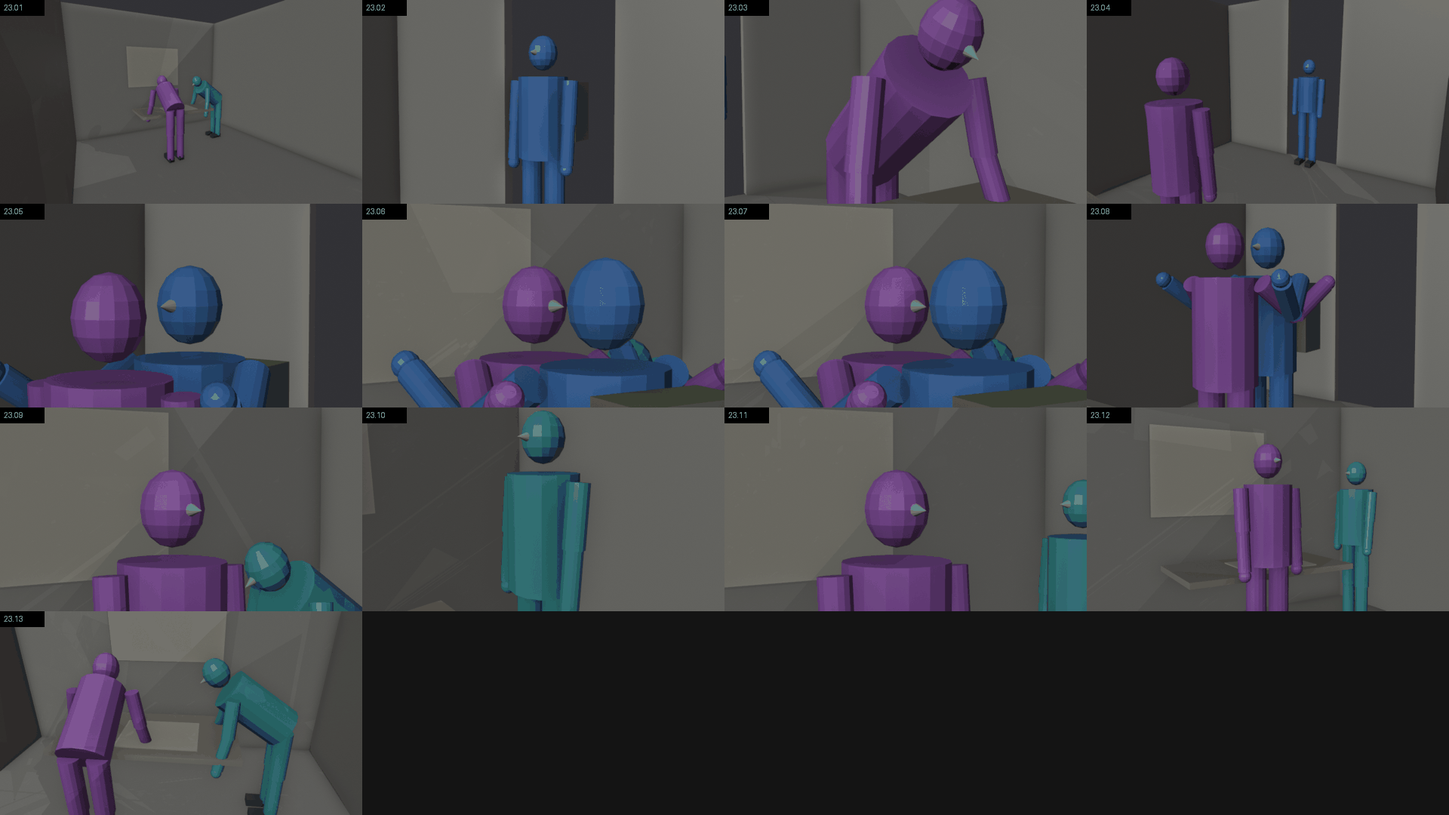
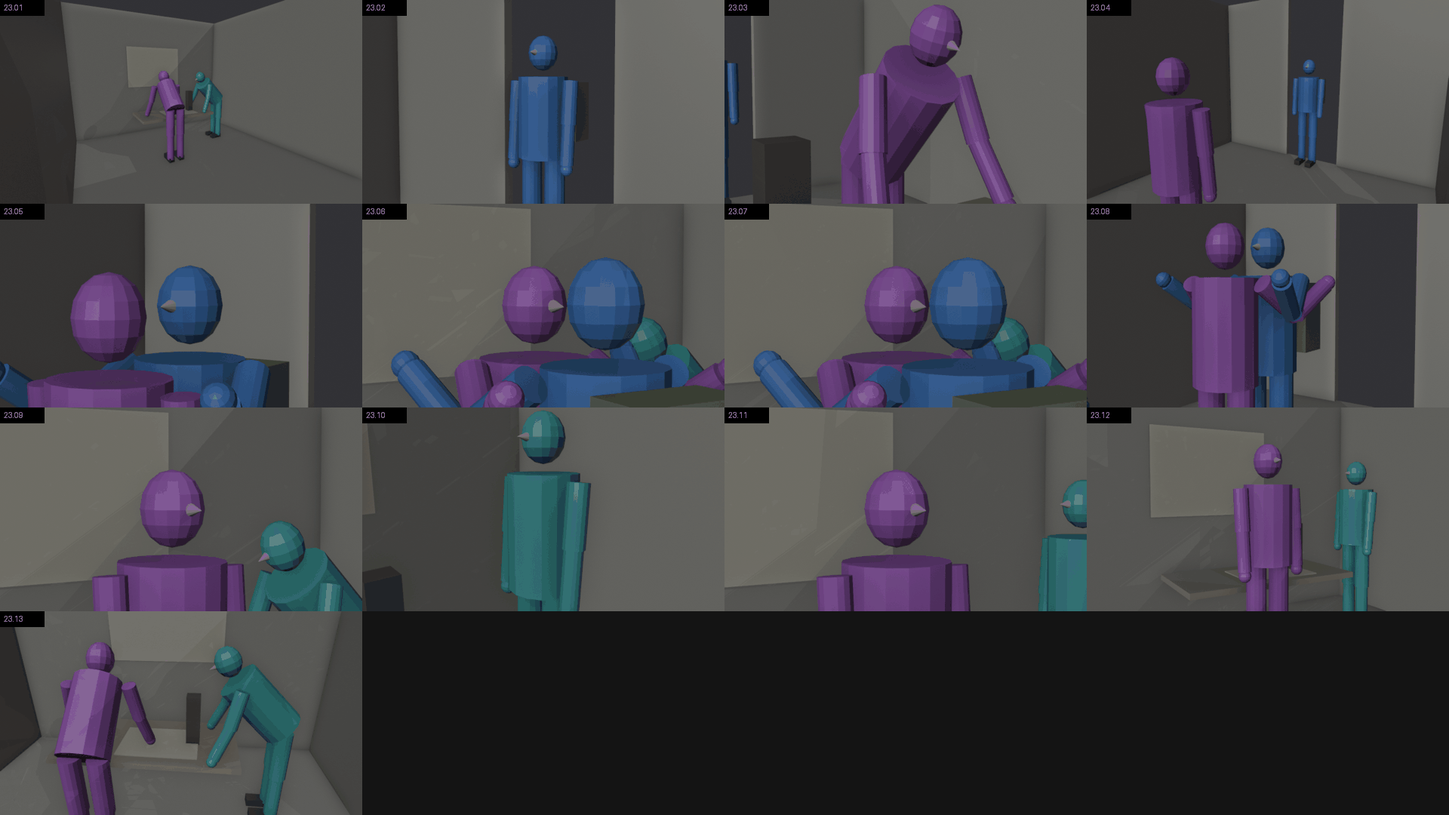
Рендеры: пятый круг — превью сцен 1–23 после правок критика, код lib/run_scene

diff --git a/screenplay/env-review/renders/src/lib/locations.py b/screenplay/env-review/renders/src/lib/locations.py
@@ -223,8 +223,10 @@ def army_tent(name, at, facing=0.0, size=(2.2, 2.8), h=1.9, rgb=(0.20, 0.22, 0.1
     _drop_faces(roof, (0, -1, 0))  # the prism's flat underside
     roof.scale = (1, 0.55, 1)
     attach(roof, root, (0, 0, h * 0.65 + w * 0.14), (math.pi / 2, 0, math.pi / 2 * 0))
-    if open_flap:
-        attach(box((w * 0.45, 0.02, h * 0.6), (0, 0, 0), mat("dark_inside", (0.01, 0.01, 0.01), flat=(0.1, 0.1, 0.1)), name=f"{name}.door"), root, (0, d / 2 + 0.01, h * 0.3))
+    if open_flap:  # a real opening in the front wall: two side panels, the middle 0.45 w open
+        _drop_faces(wall, (0, 1, 0))
+        for sx in (-1, 1):
+            attach(box((w * 0.275, 0.02, h * 0.65), (0, 0, 0), canvas, name=f"{name}.front"), root, (sx * w * 0.3625, d / 2, h * 0.325))
     root.location = (at[0], at[1], 0)
     root.rotation_euler = (0, 0, math.radians(-facing))
     return root
@@ -397,7 +399,24 @@ def station(kind="pylon", length=162.0, light=(1.0, 0.25, 0.15), energy=180, lam
             top = 4.3 + TRACK_Z  # tunnel crown (lowered with the track) + a little
             box((5.2, 0.4, low - top), (tx, wy, top + (low - top) / 2), marble, name="end_wall")  # over the tunnel
             _tunnel_stub(tx, ey + (15.2 if ey > 0 else -15.2))
+            _portal_ring(tx, wy - (0.21 if ey > 0 else -0.21), TRACK_Z + CZ, marble)  # closes the corners round the tube
     return {"length": length, "plat_z": PLAT_H, **K}
+
+
+def _portal_ring(x, y, zc, m, r_in=R + 0.15, r_out=3.8, n=48):
+    """Flat annulus facing the station: fills the corners between the round tunnel and the square wall opening."""
+    bm = bmesh.new()
+    inner = [bm.verts.new((x + r_in * math.cos(2 * math.pi * i / n), y, zc + r_in * math.sin(2 * math.pi * i / n))) for i in range(n)]
+    outer = [bm.verts.new((x + r_out * math.cos(2 * math.pi * i / n), y, zc + r_out * math.sin(2 * math.pi * i / n))) for i in range(n)]
+    for i in range(n):
+        j = (i + 1) % n
+        bm.faces.new((inner[i], inner[j], outer[j], outer[i]))
+    me = bpy.data.meshes.new("portal_ring")
+    bm.to_mesh(me)
+    bm.free()
+    o = bpy.data.objects.new("portal_ring", me)
+    bpy.context.scene.collection.objects.link(o)
+    return put(o, m)
 
 
 def _tunnel_stub(x, y, length=30.0):
@@ -466,7 +485,7 @@ def peregon_savelovskaya():
     from kit import sandbags
     running_tunnel(length=140, y=30)
     for x in (-1.75, 1.75):
-        s = sandbags(f"barricade_{x}", width=1.4, height=1.4)
+        s = sandbags(f"barricade_{x}", width=1.4, height=1.5)  # 7 rows, top 1.405: the flamethrower man stands on it (3.03)
         s.location = (x, 60, 0)
     bpy.ops.object.light_add(type="POINT", location=(0, 63, 2.0))
     li = bpy.context.object
@@ -533,7 +552,7 @@ def vdnkh():
     scatter_crates(rng, ((-3.5, 3.5), (-70, 55)), 18, z=PLAT_H)
     box((5.0, 0.5, 4.0), (0, 80.2, PLAT_H + 2.0), mat("blast_door", (0.12, 0.12, 0.11), flat=(0.40, 0.42, 0.40), rough=0.5, metal=0.7),
         name="escalator_gate")  # sealed passage to the north vestibule
-    wall_clock("--:--", (9.85, 80.6, 5.3))  # the time is set by every scene ("clock"); run_scene refuses a scene without it
+    wall_clock("--:--", (9.85, 80.925, 5.3))  # the time is set by every scene ("clock"); run_scene refuses a scene without it
     # tea factory in the dead end before the sealed gate: rows of wires with drying mushroom caps, small fires, door tables
     # tarp partition with a wide doorway: closes the factory off from Main Street so it reads as a dead end; 2.4 m high,
     # so the existing cameras above it (19.01, 7.13) still look in
@@ -601,6 +620,8 @@ def botanical():
         box((2.6, 0.12, 3.4), (x, 83.6, PLAT_H + 1.7), rust, name=f"sliding_door_{side}")
     box((5.5, 0.5, 4.3), (0, 85.6, PLAT_H + 6.6), mat("blast_door", (0.12, 0.12, 0.11), flat=(0.40, 0.42, 0.40), rough=0.5, metal=0.7), name="blast_door")  # raised: open
     box((0.08, 0.08, 0.9), (3.2, 83.4, PLAT_H + 0.9), rust, rot=(math.radians(25), 0, 0), name="lever")  # beside the doors, wrapped in wire
+    # T-handle at the top of the lever: wide enough for three children's hands side by side (scene 9, 9.17)
+    box((0.9, 0.06, 0.06), (3.2, 83.4 - 0.45 * math.sin(math.radians(25)), PLAT_H + 0.9 + 0.45 * math.cos(math.radians(25))), rust, name="lever_bar")
     box((5.6, 2.6, 0.3), (0, 85.9, PLAT_H - 0.15), mat("granite_floor", (0.20, 0.14, 0.12), flat=(0.55, 0.42, 0.38), rough=0.5),
         name="escalator_landing")  # floor from the doors to the first step (the shaft bottom lies below it)
     steps = mat("rotten_steps", (0.08, 0.06, 0.05), flat=(0.35, 0.28, 0.20))
@@ -616,6 +637,10 @@ def botanical():
     bpy.ops.mesh.primitive_cylinder_add(radius=2.2, depth=17, location=(0, 93.5, PLAT_H + 4.2), rotation=(math.radians(-60), 0, 0),
                                         vertices=32, end_fill_type="NOTHING")  # open tube along the 30-degree incline
     put(bpy.context.object, mat("concrete", (0.20, 0.18, 0.16), flat=(0.33, 0.32, 0.30)), "escalator_shaft")
+    axis = Vector((0, math.sin(math.radians(60)), math.cos(math.radians(60))))  # the tube's axis after the -60 degree tilt
+    top = Vector((0, 93.5, PLAT_H + 4.2)) + axis * 8.5
+    cyl(2.2, 0.05, top.to_tuple(), mat("dark_inside", (0.01, 0.01, 0.01), flat=(0.1, 0.1, 0.1)), rot=(math.radians(-60), 0, 0), verts=32,
+        name="escalator_top")  # the far end is dark (the vestibule above is not modelled here), not open background
 
 
 def botanical_vestibule():
@@ -629,9 +654,18 @@ def botanical_vestibule():
         if abs(math.degrees(a0) - 90) < 9:
             continue
         box((0.4, 1.7, 5.0), (9.0 * math.cos(a0), 9.0 * math.sin(a0), 2.5), conc, rot=(0, 0, a0), name="rotunda_wall")
-    dome = half_tube("dome_half", 9.0, 9.0, (0, 5.0), conc, a0=0, a1=180, segs=24)  # the surviving south half of the vault
-    dome.location.y = -4.5
-    dome.rotation_euler = (0, 0, 0)
+    # the surviving south half of the dome (a real dome, not a barrel vault): the sky shows only over the fallen north half
+    bm = bmesh.new()
+    bmesh.ops.create_uvsphere(bm, u_segments=48, v_segments=24, radius=9.2)
+    bmesh.ops.delete(bm, geom=[v for v in bm.verts if v.co.z < -0.01 or v.co.y > 0.5], context="VERTS")
+    me = bpy.data.meshes.new("dome_half")
+    bm.to_mesh(me)
+    bm.free()
+    dome = bpy.data.objects.new("dome_half", me)
+    bpy.context.scene.collection.objects.link(dome)
+    dome.location = (0, 0, 5.0)
+    dome.scale.z = 0.6
+    put(dome, conc)
     box((3.0, 6.0, 0.05), (0, -6.0, 0.01), mat("dark_inside", (0.01, 0.01, 0.01), flat=(0.1, 0.1, 0.1)), name="escalator_opening")
     rng = _rng(10)
     scatter_debris(rng, ((-7, 7), (-7, 7)), 150)
@@ -660,6 +694,7 @@ def sukhoi_tent():
     box((3.2, 0.04, 2.4), (0, 2.1, 1.2), canvas, name="tent_back")
     box((1.2, 0.04, 2.2), (-1.0, -2.1, 1.1), canvas, name="tent_front_L")
     box((1.2, 0.04, 2.2), (1.0, -2.1, 1.1), canvas, name="tent_front_R")
+    box((0.8, 0.04, 0.48), (0, -2.1, 2.16), canvas, name="tent_front_lintel")  # doorway 1.92 m: a tall man stoops
     cot = mat("cot", (0.20, 0.22, 0.15), flat=(0.45, 0.52, 0.35))
     for x in (-1.15, 1.15):
         box((0.7, 1.9, 0.08), (x, 0.3, 0.42), cot, name="cot")
@@ -669,12 +704,20 @@ def sukhoi_tent():
         for size, off in (((0.75, 0.03, 0.5), (0, 0.185, 0)), ((0.03, 0.4, 0.5), (-0.36, 0, 0)), ((0.03, 0.4, 0.5), (0.36, 0, 0)),
                           ((0.75, 0.4, 0.03), (0, 0, -0.235)), ((0.75, 0.4, 0.03), (0, 0, 0.235))):  # crate on its side, open to the tent
             box(size, (x + off[0], 1.85 + off[1], z + off[2]), wood, name="shelf_crate")
-        box((0.6, 0.25, 0.3), (x, 1.85, z + 0.05), books, name="books")
+        trng = _rng(30 + i)
+        bx = x - 0.33
+        while bx < x + 0.3:  # 8-10 tomes standing side by side, spines to the tent
+            tw, th = trng.uniform(0.05, 0.085), trng.uniform(0.2, 0.32)
+            box((tw, 0.24, th), (bx + tw / 2, 1.85, z - 0.22 + th / 2),
+                mat(f"book_{i}_{round(bx, 2)}", trng.choice(((0.35, 0.30, 0.15), (0.28, 0.12, 0.08), (0.18, 0.2, 0.12), (0.4, 0.36, 0.25))),
+                    flat=(0.85, 0.75, 0.40)), name="book")
+            bx += tw + 0.006
     crate("seat_crate", (0.0, -0.4), 0)
     box((0.8, 0.6, 0.05), (0.0, 0.6, 0.7), mat("door_table", (0.18, 0.15, 0.11), flat=(0.60, 0.52, 0.40)), name="table")
     bpy.ops.object.light_add(type="POINT", location=(0, 0.6, 1.6))
     li = bpy.context.object
     li.name, li.data.energy, li.data.color, li.data.shadow_soft_size = "tent_lamp", 120, (1.0, 0.75, 0.45), 0.1
+    box((0.01, 0.01, 0.55), (0, 0.6, 2.075), mat("cable", (0.03, 0.03, 0.03), flat=(0.12, 0.12, 0.12), rough=0.5), name="tent_lamp_cord")  # 714
     glow = mat("tent_lamp_glow", (1, 0.8, 0.5), flat=(1, 0.9, 0.6), emit=(1, 0.75, 0.45), strength=8)
     box((0.12, 0.12, 0.16), (0, 0.6, 1.72), glow, name="tent_lamp_bulb").visible_shadow = False  # the lamp itself, under the ridge
     bpy.context.scene.world.node_tree.nodes["Background"].inputs[0].default_value = (0.02, 0.008, 0.006, 1)  # red station glow through canvas
@@ -689,7 +732,7 @@ def vdnkh_office():
     box((4, 0.1, 3), (0, 2.5, 1.5), plaster, name="wall")
     box((1.5, 0.1, 3), (-1.25, -2.5, 1.5), plaster, name="wall")
     box((1.5, 0.1, 3), (1.25, -2.5, 1.5), plaster, name="wall")
-    box((1.6, 0.8, 0.05), (0, 1.3, 0.78), mat("door_table", (0.18, 0.15, 0.11), flat=(0.60, 0.52, 0.40)), name="desk")
+    box((1.6, 0.8, 0.05), (0, 1.3, 0.70), mat("door_table", (0.18, 0.15, 0.11), flat=(0.60, 0.52, 0.40)), name="desk")  # 708
     box((1.4, 0.02, 1.0), (0, 2.44, 1.7), mat("paper_map", (0.55, 0.50, 0.38), flat=(0.95, 0.90, 0.75)), name="wall_map")
     bpy.ops.object.light_add(type="POINT", location=(0.4, 1.3, 1.2))
     li = bpy.context.object

diff --git a/screenplay/env-review/renders/src/lib/kit.py b/screenplay/env-review/renders/src/lib/kit.py
@@ -207,23 +207,29 @@ POSES = {
                    "chest": (-25, 0, 0), "shoulder_L": (150, 0, 40), "elbow_L": (130, 0, 0), "shoulder_R": (150, 0, -40), "elbow_R": (130, 0, 0)},
     "flame": {"shoulder_L": (75, 0, 15), "elbow_L": (10, 0, 0), "shoulder_R": (60, 0, -10), "elbow_R": (40, 0, 0)},
     "stoop": {"chest": (-35, 0, 0), "head": (15, 0, 0), "shoulder_L": (20, 0, 0), "shoulder_R": (20, 0, 0)},
-    "bend_over": {"chest": (-55, 0, 0), "head": (20, 0, 0), "shoulder_L": (60, 0, 10), "elbow_L": (10, 0, 0),
+    "bend_over": {"chest": (-45, 0, 0), "head": (20, 0, 0), "shoulder_L": (60, 0, 10), "elbow_L": (10, 0, 0),
                   "shoulder_R": (60, 0, -10), "elbow_R": (10, 0, 0)},
     "tap_temple": {"shoulder_R": (110, 0, -25), "elbow_R": (125, 0, 0), "shoulder_L": (5, 0, 0)},
     "sit_tap_temple": {**SIT, "shoulder_R": (110, 0, -25), "elbow_R": (125, 0, 0), "shoulder_L": (40, 0, 0), "elbow_L": (10, 0, 0)},
     "kneel_touch": {"pelvis_z": 0.55, "hip_L": (80, 0, 0), "knee_L": (-80, 0, 0), "hip_R": (10, 0, 0), "knee_R": (-100, 0, 0),
                     "chest": (-20, 0, 0), "shoulder_R": (75, 0, 0), "elbow_R": (15, 0, 0), "shoulder_L": (20, 0, 0)},
     "sit_rifle_beside": {**SIT, "shoulder_L": (40, 0, 0), "elbow_L": (10, 0, 0), "rifle": "beside_R"},
-    "sit_reach_rifle": {**SIT, "chest": (-15, 0, -10), "shoulder_R": (35, 0, -35), "elbow_R": (10, 0, 0), "rifle": "beside_R"},
+    "sit_reach_rifle": {**SIT, "chest": (0, 30, 0), "shoulder_R": (15, -30, 0), "elbow_R": (0, 0, 0), "shoulder_L": (40, 0, 0), "elbow_L": (10, 0, 0)},  # 4.04 (critic)
+    "sit_chop": {**SIT, "chest": (-15, 0, 0), "shoulder_R": (60, 0, 0), "elbow_R": (60, 0, 0), "shoulder_L": (60, 0, 0), "elbow_L": (60, 0, 0)},  # knives on the table (19)
+    "pump": {"chest": (-10, 0, 0), "shoulder_L": (35, 0, -25), "elbow_L": (0, 0, 0), "shoulder_R": (35, 0, 25), "elbow_R": (0, 0, 0)},  # handcar levers (24)
+    "look_up": {"head": (35, 0, 0), "shoulder_L": (5, 0, 0), "shoulder_R": (5, 0, 0)},  # head back to the sky (10.01)
+    "raise_belt": {"shoulder_R": (110, 0, 0), "shoulder_L": (5, 0, 0)},  # belt raised under the tent roof (12)
+    "offer_low": {"shoulder_R": (68, 0, 0), "elbow_R": (5, 0, 0), "shoulder_L": (5, 0, 0)},  # handshake height (6.04)
+    "strike": {"chest": (-10, 0, 0), "shoulder_R": (60, 0, 0), "elbow_R": (10, 0, 0), "shoulder_L": (5, 0, 0)},  # belt blow (12)
     "reach_up": {"shoulder_L": (155, 0, 10), "elbow_L": (15, 0, 0), "shoulder_R": (155, 0, -10), "elbow_R": (15, 0, 0)},  # hanging laundry
     "wave": {"shoulder_R": (150, 0, -20), "elbow_R": (30, 0, 0), "shoulder_L": (5, 0, 0)},
     "sit_wave": {**SIT, "shoulder_R": (120, 0, -20), "elbow_R": (30, 0, 0), "shoulder_L": (40, 0, 0), "elbow_L": (10, 0, 0)},
 }
 RIFLE_HOLD = {  # rifle transform in chest space for each way of holding it
-    "lap": ((0.0, 0.30, -0.42), (0, 0, math.radians(80))),
+    "lap": ((0.0, 0.40, 0.13), (0, 0, math.radians(80))),  # on the thighs, clear of the shins (critic, round 4)
     "hip": ((0.08, 0.30, 0.10), (math.radians(25), 0, math.radians(-10))),
     "shoulder": ((0.13, 0.20, 0.47), (0, 0, 0)),
-    "sling": ((0.05, -0.17, 0.0), (math.radians(70), math.radians(30), 0)),  # on the back, muzzle up over the left shoulder
+    "sling": ((0.05, -0.26, 0.40), (math.radians(90), math.radians(20), math.radians(180))),  # on the back, clear of the body in 11 poses (critic)
     "beside_R": ((0.45, 0.15, -0.27), (0, 0, math.radians(10))),  # seated: lying on the floor at the right hip
 }
 JOINT_NAMES = ["pelvis", "chest", "head", "shoulder_L", "elbow_L", "hip_L", "knee_L", "shoulder_R", "elbow_R", "hip_R", "knee_R"]
@@ -236,7 +242,7 @@ class Actor:
         self.name, self.J, self.k, self.rifle = name, J, J["k"], rifle_obj
         self.pos, self.facing, self.pose, self.head_yaw = Vector((0, 0, 0)), 0.0, "stand", 0.0
 
-    def _apply(self, pose_name, frame, walk=None):
+    def _apply(self, pose_name, frame, walk=None, rifle=None):
         p = POSES[pose_name]
         J, k = self.J, self.k
         J["pelvis"].location = (0, 0, p.get("pelvis_z", 0.95 * k))
@@ -249,8 +255,9 @@ class Actor:
                 rot = (rot[0], rot[1], rot[2] - self.head_yaw)
             J[j].rotation_euler = tuple(math.radians(a) for a in rot)
             J[j].keyframe_insert("rotation_euler", frame=frame)
-        if self.rifle:  # poses that do not use the rifle carry it slung on the back
-            loc, rot = RIFLE_HOLD[p.get("rifle", "sling")]
+        if self.rifle:  # a pose that does not use the rifle: seated -> it lies by the right hip, otherwise slung on the back
+            hold = rifle or p.get("rifle", "beside_R" if p.get("pelvis_z") == SIT["pelvis_z"] else "sling")
+            loc, rot = RIFLE_HOLD[hold]
             self.rifle.location, self.rifle.rotation_euler = loc, rot
             self.rifle.keyframe_insert("location", frame=frame)
             self.rifle.keyframe_insert("rotation_euler", frame=frame)
@@ -295,7 +302,9 @@ class Actor:
         f = frame + int(0.3 * FPS)
         self.facing = _near_angle(self.facing, heading)
         self.pose = "stand"
-        self._apply("stand", f)
+        held = POSES[pose_after].get("rifle")  # walking: carry the rifle the way the pose after the walk holds it
+        carry = held if held in ("hip", "shoulder") else "sling"
+        self._apply("stand", f, rifle=carry)
         self._key_root(f)
         steps = max(2, round(d.length / (speed * 0.5)))
         start = self.pos.copy()
@@ -309,7 +318,7 @@ class Actor:
                 gait.pop("shoulder_R")
             self.pos = start + d * (i / steps)
             self._key_root(fi)
-            self._apply("flashlight" if self.name == "Andrei" else "stand", fi, walk=gait)
+            self._apply("flashlight" if self.name == "Andrei" else "stand", fi, walk=gait, rifle=carry)
         end = f + int(steps * 0.5 * FPS)
         self._apply(pose_after, end + int(0.3 * FPS))
         self.pose = pose_after
@@ -387,7 +396,8 @@ def render_pass(kind, path):
     sh = sc.display.shading
     sc.view_settings.view_transform = "AgX" if kind == "lit" else "Standard"  # flat colours stay exact
     if kind == "lit":
-        sc.render.engine = "BLENDER_EEVEE_NEXT"
+        engines = {e.identifier for e in bpy.types.RenderSettings.bl_rna.properties["engine"].enum_items}
+        sc.render.engine = "BLENDER_EEVEE_NEXT" if "BLENDER_EEVEE_NEXT" in engines else "BLENDER_EEVEE"  # 4.2 / 5.x
         sc.use_nodes = True
         nt = sc.node_tree
         nt.nodes.clear()
@@ -456,7 +466,7 @@ def machine_gun(name):
     root = empty(name)
     g = mat("gunmetal", (0.03, 0.03, 0.03), flat=(0.05, 0.05, 0.05), rough=0.4, metal=0.7)
     for a in (0, 120, 240):
-        leg = cyl(0.02, 0.8, (0, 0, 0), g, (math.radians(30), 0, math.radians(a)), 6, f"{name}.leg")
+        leg = cyl(0.02, 0.8, (0, 0, 0), g, (math.radians(-30), 0, math.radians(a)), 6, f"{name}.leg")  # feet splayed outward
         attach(leg, root, (0.18 * math.sin(math.radians(a)), -0.18 * math.cos(math.radians(a)), 0.35))
     attach(box((0.14, 0.6, 0.16), (0, 0, 0), g, name=f"{name}.body"), root, (0, 0, 0.75))
     attach(cyl(0.025, 0.9, (0, 0, 0), g, (math.pi / 2, 0, 0), 10, f"{name}.barrel"), root, (0, 0.75, 0.77))

diff --git a/screenplay/env-review/renders/src/run_scene.py b/screenplay/env-review/renders/src/run_scene.py
@@ -31,9 +31,17 @@ if "clock_digits" in bpy.data.objects:  # a station clock is in this location: t
     bpy.data.objects["clock_digits"].data.body = spec["clock"]
 for o in list(bpy.context.scene.objects):
     if o.type == "LIGHT":
+        o["base_energy"] = o.data.energy  # as built, before light_scale: lamp bodies dim relative to it
         o.data.energy *= spec.get("light_scale", 1.0)
         if "light_color" in spec and "fire" not in o.name:  # e.g. the "almost brown" VDNKh night instead of its red
             o.data.color = spec["light_color"]
+for m in bpy.data.materials:  # the visible lamp bodies follow their lights: dimmed by light_scale, tinted by light_color
+    if m.name in ("chandelier", "lamp_head", "tent_lamp_glow") or (m.name.endswith("_glow") and m.name != "lantern_glow"):
+        b = m.node_tree.nodes.get("Principled BSDF")
+        if b:
+            b.inputs["Emission Strength"].default_value *= spec.get("light_scale", 1.0)
+            if "light_color" in spec:
+                b.inputs["Emission Color"].default_value = (*spec["light_color"], 1)
 
 # timeline: shot starts from storyboard durations
 t, starts = 0.0, {}
@@ -59,8 +67,16 @@ for name, c in spec["cast"].items():
     actors[name] = kit.Actor(name, J, rifle)
     kit.key_visible(J["root"], 1, True)  # so a later 'hide' only hides from that moment on
 if spec["location"] == "vdnkh":  # ~200 people live here; at night most are inside their tents
-    busy = [tuple(e.get("pos") or e.get("to"))[:2] for e in spec["events"] if e["do"] in ("place", "walk")]
+    busy, at = [], {}  # every point the cast passes (each 0.5 m along every walk / move), crates, location crates
+    for e in sorted(spec["events"], key=lambda e: frame_of(e["at"], e.get("dt", 0))):
+        if e["do"] in ("place", "walk", "move") and "actor" in e:
+            p1 = Vector((e.get("pos") or e.get("to"))[:2])
+            p0 = at.get(e["actor"], p1)
+            k = max(1, int((p1 - p0).length / 0.5))
+            busy += [tuple(p0.lerp(p1, i / k)) for i in range(k + 1)]
+            at[e["actor"]] = p1
     busy += [tuple(c[:2]) for c in spec.get("crates", [])]
+    busy += [tuple(o.location[:2]) for o in bpy.context.scene.objects if o.name.startswith("crate")]
     for sh in spec["shots"]:  # keep the first 6 m in front of every hand-placed lens clear of extras
         c = sh.get("cam", {})
         if isinstance(c.get("pos"), list) and isinstance(c.get("at"), list):
@@ -135,9 +151,13 @@ for e in sorted(spec["events"], key=lambda e: frame_of(e["at"], e.get("dt", 0)))
         li.data.keyframe_insert("energy", frame=f - 1)
         li.data.energy = e["energy"]
         li.data.keyframe_insert("energy", frame=f)
-        bulb = bpy.data.objects.get(f'{e["light"]}_bulb')  # a visible lamp body goes dark with its light
+        bulb = bpy.data.objects.get(f'{e["light"]}_bulb')  # a visible lamp body dims and goes dark with its light
         if bulb:
             kit.key_visible(bulb, f, e["energy"] > 0)
+            glow = bulb.active_material.node_tree.nodes["Principled BSDF"].inputs["Emission Strength"]
+            glow.keyframe_insert("default_value", frame=f - 1)
+            glow.default_value = 8.0 * e["energy"] / li.get("base_energy", 120.0)
+            glow.keyframe_insert("default_value", frame=f)
 
 
 def point(ref, frame):

diff --git a/screenplay/env-review/renders/src/tools_location_preview.py b/screenplay/env-review/renders/src/tools_location_preview.py
@@ -17,8 +17,8 @@ VIEWS = {  # (camera, target, lens) per location
 EXTRA = {  # more views of the same location: file name -> (location, camera, target, lens)
     "vdnkh-guest-tent": ("vdnkh", (7.6, 30.0, 2.9), (7.0, 40.0, 1.6), 24),  # east side nave, edge walkway, guest tent
     "vdnkh-laundry": ("vdnkh", (-1.5, -26.0, 2.8), (-4.5, -8.0, 2.6), 24),  # laundry along the west pylon faces
-    "vdnkh-north-clock": ("vdnkh", (8.6, 50.0, 2.6), (9.85, 80.6, 4.6), 30),  # tea factory, gate, clock over the east portal
-    "vdnkh-south-end": ("vdnkh", (2.5, -55.0, 3.0), (5.5, -80.0, 2.0), 22),  # south arches and portals (scene 24)
+    "vdnkh-north-clock": ("vdnkh", (8.45, 36.6, 2.75), (9.85, 81.0, 2.0), 35),  # tea factory, gate, clock over the east portal
+    "vdnkh-south-end": ("vdnkh", (7.7, -55.0, 3.0), (8.0, -80.0, 2.0), 22),  # south arches and portals (scene 24)
 }
 VIEWS["sukhoi_tent"] = ((-1.15, -1.85, 1.35), (0.5, 1.5, 0.8), 16)  # inside the tent, under the roof slope
 os.makedirs(out, exist_ok=True)

diff --git a/screenplay/env-review/renders/src/bl.py b/screenplay/env-review/renders/src/bl.py
@@ -1,0 +1,11 @@
+# Send Python code to the Blender MCP add-on (127.0.0.1:9876); prints JSON response.
+import socket, json, sys
+code = open(sys.argv[1]).read() if len(sys.argv) > 1 else sys.stdin.read()
+s = socket.create_connection(('127.0.0.1', 9876), timeout=60)
+s.sendall(json.dumps({"type": "execute", "code": code, "strict_json": False}).encode() + b"\0")
+buf = b''
+while b"\0" not in buf:
+    c = s.recv(65536)
+    if not c: break
+    buf += c
+print(json.dumps(json.loads(buf.rstrip(b"\0")), ensure_ascii=False, indent=1))

diff --git a/screenplay/env-review/renders/AUTHOR_NOTES.md b/screenplay/env-review/renders/AUTHOR_NOTES.md
@@ -119,3 +119,12 @@
 - `preview/scene-NN-preview.png` — плоские превью первого кадра КАЖДОГО плана сцен 1–24 (377 планов), с номерами планов; это то, что пойдёт в полный рендер. Со светом ничего не рендерилось. Листы `scene-NN.png` в корне пакета — старые рендеры (до четвёртого круга), для сравнения.
 - Новые обзоры: `place-vdnkh-guest-tent`, `place-vdnkh-laundry`, `place-vdnkh-north-clock`, `place-vdnkh-south-end`; `place-sukhoi_tent` снят изнутри; остальные `place-*` пересняты после правок (открытые палатки, бельё x −4,05, стена над порталами).
 - Ваши 9f7f112 / f7c1eca перенесены; `run_scene.py` теперь пропускает поле `note` у реквизита (раньше на нём падала сцена 22).
+
+### Пятый круг — превью после правок 53b2a52, 2077f78, dd7d1c7, 67661ed (16.10)
+
+- `preview/scene-NN-preview.png` пересняты для сцен 1–23 со всеми вашими и моими правками (сцена 24 — превью предыдущего прогона, новое следом).
+- lib/kit: lap (0; 0,40; 0,13), sling (критик), сидячие без `rifle` → `beside_R`; при ходьбе автомат как в позе после шага; позы sit_reach_rifle, offer_low, strike, raise_belt, look_up, sit_chop, pump; bend_over −45°; ноги пулемёта −30°.
+- lib/locations: проём полога в палатках ВДНХ (П7), перемычка входа в палатку Сухого 1,92 м (П9), часы y 80,925 (П14), кольцо вокруг порталов (П15), стол кабинета z 0,70, шнур лампы, тома на полках (8–10 на ящик), купол ротонды (южная половина), перекладина 0,9 м на рычаге (сцена 9), тёмный верх трубы эскалатора (809), баррикада 1,5 м, бельё x −4,05.
+- run_scene: лампы-тела тускнеют и тонируются по `light_scale` / `light_color` (П8), колба лампы палатки — по энергии света; массовка обходит весь путь каждого героя и ящики места; поле `note` у реквизита пропускается.
+- Blender: `/Applications/Blender.app` теперь 5.2 (живое окно, мост `bl.py`, порт 9876); конвейер закреплён за 4.2 (`blender.sh`), движок EEVEE выбирается для обеих версий.
+- Просьба пользователя к критику (видео про clay render): проверить правило 180° в диалоговых сценах (1, 17, 18, 22) — кто слева, остаётся слева во всех планах.
